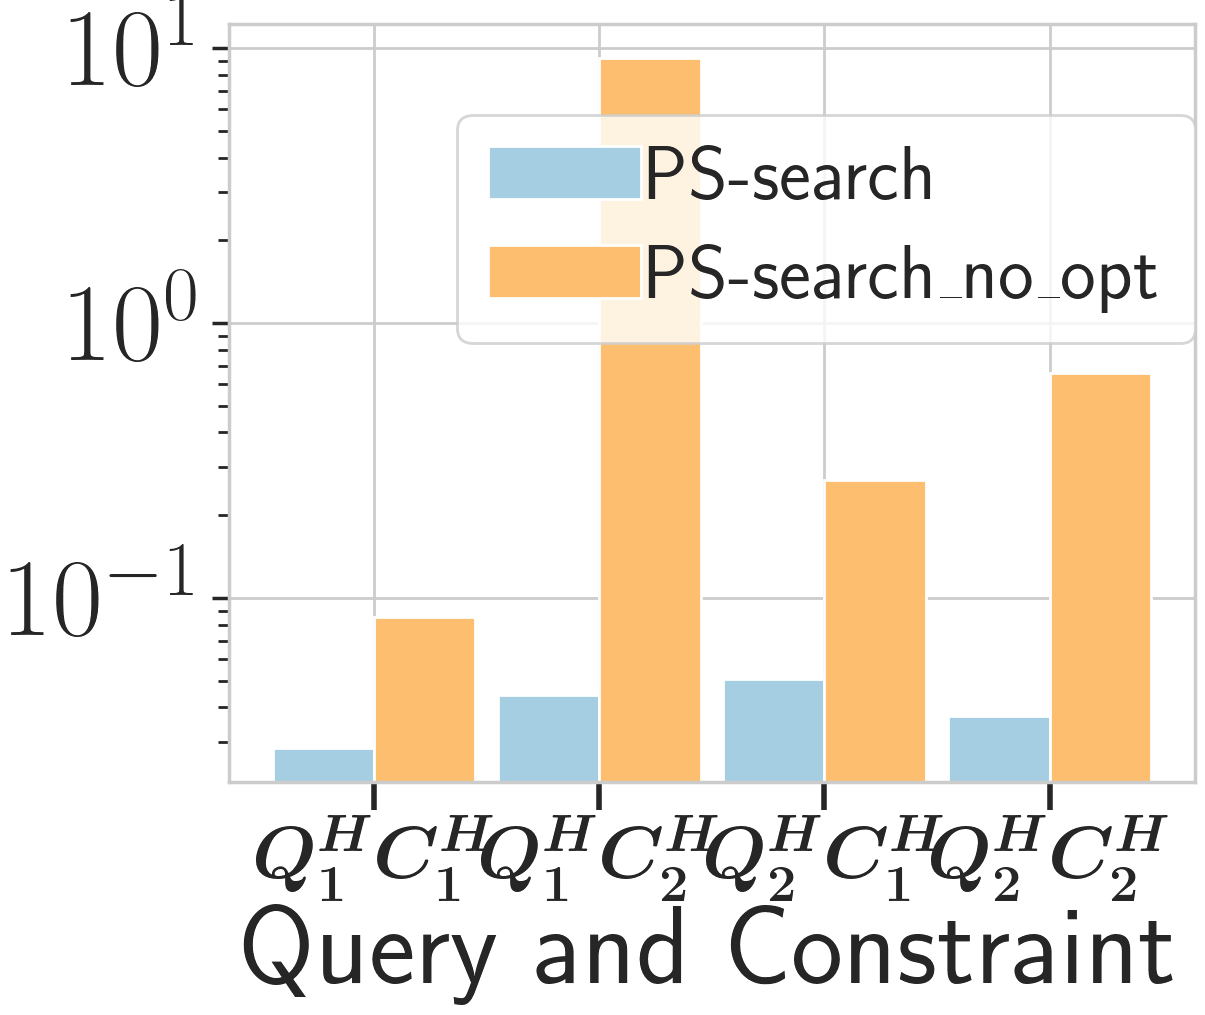
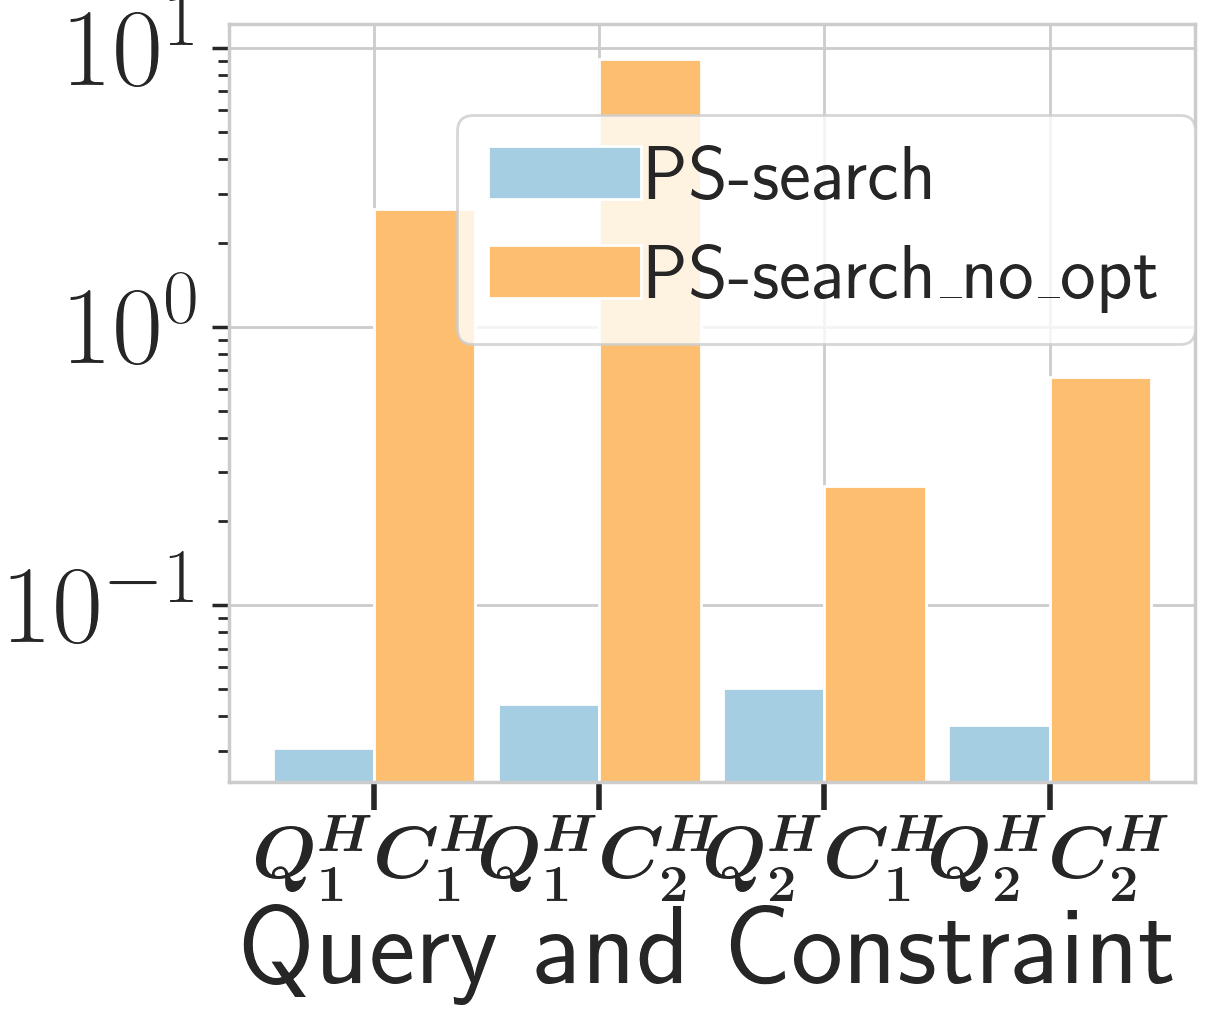
healthcare effect opt

diff --git a/Experiment/healthcare/effect_optimization/fig_4q.py b/Experiment/healthcare/effect_optimization/fig_4q.py
@@ -19,7 +19,7 @@ plt.rc('font', size=70, weight='bold')
 color = ['C1', 'C0', 'C7', 'C6']
 label = ['PS-prov', "PS-search", "PS-prov\_no\_opt", "PS-search\_no\_opt"]
 
-f_size = (14, 12)
+f_size = (26, 12)
 
 x_list = list()
 x_naive = list()
@@ -29,7 +29,7 @@ execution_timebl1 = list()
 execution_timebl2 = list()
 
 
-input_path = r'time.csv'
+input_path = r'time_4q.csv'
 input_file = open(input_path, "r")
 
 Lines = input_file.readlines()
@@ -42,7 +42,7 @@ for line in Lines:
         continue
     if count < 2:
         continue
-    if count > 8:
+    if count > 10:
         break
     items = line.strip().split(',')
     x_list.append(items[0])
@@ -72,18 +72,20 @@ plt.bar(index + bar_width, execution_timebl1, bar_width, color=color[3], label=l
 # x_list = ['\\boldmath$Q^H_1$\n\\boldmath$C^H_1$', '\\boldmath$Q^H_1$\n\\boldmath$C^H_2$',
 #           '\\boldmath$Q^H_2$\n\\boldmath$C^H_1$', '\\boldmath$Q^H_2$\n\\boldmath$C^H_2$']
 x_list = ['\\boldmath$Q^H_1$\\boldmath$C^H_1$', '\\boldmath$Q^H_1$\\boldmath$C^H_2$',
-          '\\boldmath$Q^H_2$\\boldmath$C^H_1$', '\\boldmath$Q^H_2$\\boldmath$C^H_2$']
+          '\\boldmath$Q^H_2$\\boldmath$C^H_1$', '\\boldmath$Q^H_2$\\boldmath$C^H_2$',
+          '\\boldmath$Q^H_3$\\boldmath$C^H_4$', '\\boldmath$Q^H_3$\\boldmath$C^H_5$',
+          '\\boldmath$Q^H_4$\\boldmath$C^H_7$', '\\boldmath$Q^H_4$\\boldmath$C^H_8$',
+          ]
 
-
-plt.xticks(np.arange(0, 4) + bar_width/2, x_list, rotation=0, fontsize=54)
+plt.xticks(np.arange(0, 8) + bar_width/2, x_list, rotation=0, fontsize=60)
 plt.yticks(fontsize=80, weight='bold')
 
 plt.xlabel('Query and Constraint', fontsize=80, weight='bold')
 
 plt.yscale('log')
-lgnd = plt.legend(loc='upper right', bbox_to_anchor=(1.04, 0.93), fontsize=55, ncol=1, labelspacing=0.4,
+lgnd = plt.legend(loc='upper right', bbox_to_anchor=(0.8, 1.05), fontsize=70, ncol=1, labelspacing=0.4,
                   handletextpad=0.1, markerscale=0.5, columnspacing=0.5)
 
 plt.tight_layout()
-plt.savefig("healthcare_optimization_effect.png", bbox_inches='tight')
+plt.savefig("healthcare_optimization_effect_4q.png", bbox_inches='tight')
 plt.show()

diff --git a/Experiment/healthcare/effect_optimization/q3/running_time.py b/Experiment/healthcare/effect_optimization/q3/running_time.py
@@ -61,7 +61,7 @@ def compare(q, c, time_output):
 
     # print("========================== baseline  ===================================")
     #
-    # minimal_refinements3, running_time3, _, \
+    # minimal_refinements3, _, running_time3, \
     #     provenance_time3, search_time3 = \
     #     lt.FindMinimalRefinement(data_file_prefix, separator, query_file, constraint_file,
     #                                              data_file_format, time_limit)
@@ -71,7 +71,6 @@ def compare(q, c, time_output):
 
     time_output.write("\n")
     idx = "Q" + str(q) + "C" + str(c)
-
 
     gain = (search_time2 - search_time1)/search_time2
     time_output.write("{},{:0.4f},{:0.4f},{:0.4f},"
@@ -87,7 +86,6 @@ def compare(q, c, time_output):
                                                          running_time2, provenance_time2, search_time2))
     result_output.write("gain = {}\n".format(gain))
 
-
 summary_file = open(r"time1.csv", "w")
 summary_file.write("file,PS,LT\n")
 
@@ -99,9 +97,9 @@ def run(q, c):
     time_output.close()
 
 
-run(1, 1)
+# run(1, 1)
 # run(1, 2)
 # run(1, 3)
-# run(2, 1)
-# run(2, 2)
-# run(2, 3)
+run(3, 1)
+run(3, 2)
+

diff --git a/Experiment/healthcare/effect_optimization/q4/running_time.py b/Experiment/healthcare/effect_optimization/q4/running_time.py
@@ -61,7 +61,7 @@ def compare(q, c, time_output):
 
     # print("========================== baseline  ===================================")
     #
-    # minimal_refinements3, running_time3, _, \
+    # minimal_refinements3, _, running_time3, \
     #     provenance_time3, search_time3 = \
     #     lt.FindMinimalRefinement(data_file_prefix, separator, query_file, constraint_file,
     #                                              data_file_format, time_limit)
@@ -71,7 +71,6 @@ def compare(q, c, time_output):
 
     time_output.write("\n")
     idx = "Q" + str(q) + "C" + str(c)
-
 
     gain = (search_time2 - search_time1)/search_time2
     time_output.write("{},{:0.4f},{:0.4f},{:0.4f},"
@@ -87,7 +86,6 @@ def compare(q, c, time_output):
                                                          running_time2, provenance_time2, search_time2))
     result_output.write("gain = {}\n".format(gain))
 
-
 summary_file = open(r"time1.csv", "w")
 summary_file.write("file,PS,LT\n")
 
@@ -99,9 +97,9 @@ def run(q, c):
     time_output.close()
 
 
-run(1, 1)
+# run(1, 1)
 # run(1, 2)
 # run(1, 3)
-# run(2, 1)
-# run(2, 2)
-# run(2, 3)
+run(4, 1)
+run(4, 2)
+
